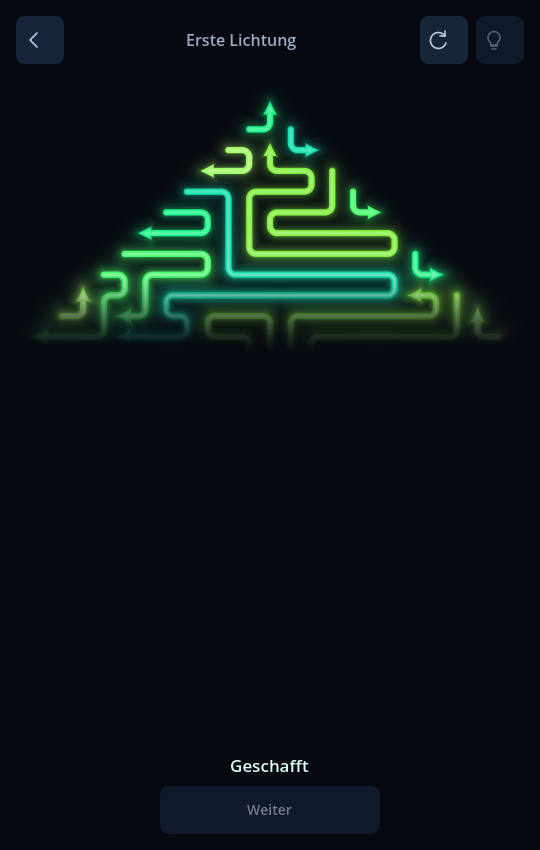
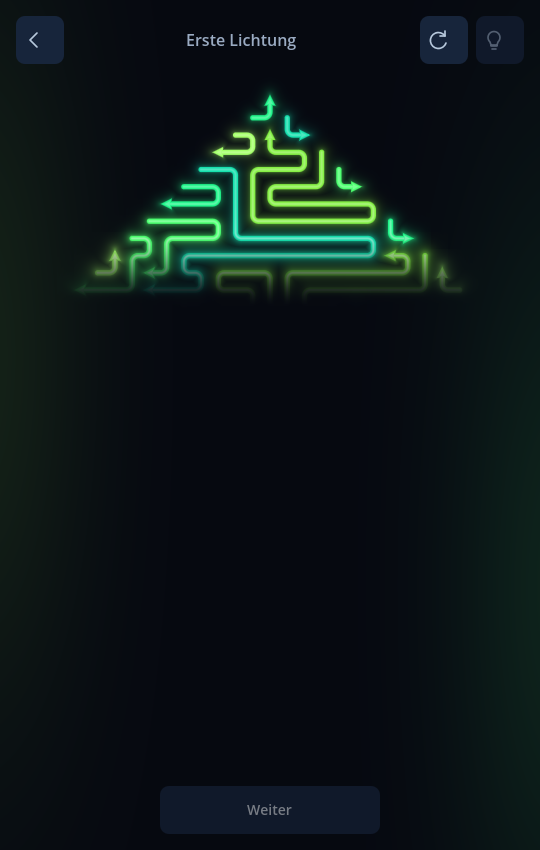
Add subtle motif-colored edge lighting during play

Changed region(s): [[0.0889, 0.0918, 0.9185, 0.3976], [0.4148, 0.8871, 0.563, 0.9176], [0.9778, 0.6424, 1.0, 0.7341]]

diff --git a/README.md b/README.md
@@ -8,7 +8,9 @@ Ein spielbares Godot-Puzzle mit leuchtenden, gerundeten Pfeilpfaden. Die Motive 
 
 Godot **4.x Standard** verwenden; geprüft mit **4.7.2**, GDScript und Compatibility-Renderer. `project.godot` importieren und **F5** drücken. Die ausführliche deutsche Anleitung steht in [START.md](START.md).
 
-## Aktueller Stand · 0.17.4-dev
+## Aktueller Stand · 0.17.5-dev
+
+- **Ruhige Atmosphäre im Spielfeld**: Ein statischer Lichtschein an den äußeren Rändern übernimmt die beiden stärksten Grundfarben des vollständigen Motivs. Die Mitte bleibt dunkel; keine Sterne oder Konturen lenken vom Antippen ab. Die Palette bleibt während des Spielens konstant. Nach dem letzten Pfeil verstärkt sich der Schein kurz im Takt des Kunstwerks und klingt wieder ab. Zoom und Verschieben bewegen ausschließlich das Motiv.
 
 - **Lichtwelt für Startseite und Reise**: Farbiger Lichtnebel, ruhige Sternpunkte und feine Konturen am Rand. Die Atmosphäre wechselt entlang des Pfads mit der Themenwelt; Hintergrundkonturen bewegen sich beim Scrollen langsamer als die Stationen. Nach dem ersten Abschluss zeigt die Startseite das zuletzt gelöste veröffentlichte Kunstwerk mit sanftem Leuchten und direktem Zugang zum Album. Der Spielstart bleibt separat erreichbar. Hintergrundelemente fangen keine Eingaben ab und verraten keine gesperrten Unterkategorien.
 
